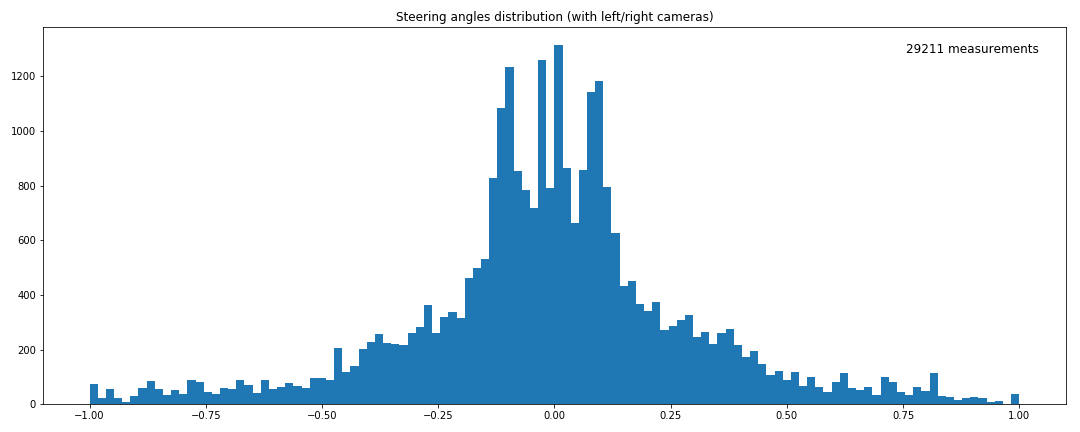
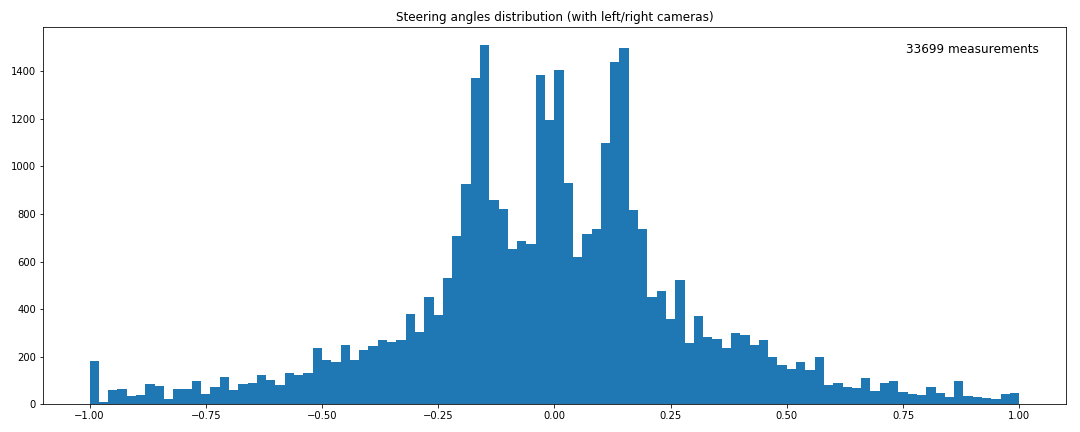
Blurring during preprocessing

diff --git a/model.py b/model.py
@@ -10,7 +10,7 @@ from data_loader import DataLoader
 
 # Keras
 from keras.models import Model
-from keras.layers import Input, Lambda, Dense, Flatten, Convolution2D, Dropout, Activation, BatchNormalization
+from keras.layers import Input, Lambda, Dense, Flatten, Convolution2D, MaxPooling2D, Dropout, Activation, BatchNormalization
 from keras.optimizers import Adam
 from keras.callbacks import TensorBoard, EarlyStopping
 
@@ -56,11 +56,11 @@ def build_model(input_shape, activation = FLAGS.activation, batch_norm = FLAGS.b
     x = Convolution2D(48, 5, 5, subsample = (2, 2), activation = activation)(x) #  22x5@48
 
     # An adddional two convolutions with smaller filters (filter size 3)
-    x = Convolution2D(64, 3, 3, activation = activation)(x) #20x3@64
-    x = Convolution2D(64, 3, 3, activation = activation)(x) #18x1@64
+    x = Convolution2D(64, 3, 3, activation = activation)(x)                     # 20x3@64
+    x = Convolution2D(64, 3, 3, activation = activation)(x)                     # 18x1@64
 
     # Flatten
-    x = Flatten()(x) # 1152
+    x = Flatten()(x)                                                            # 1152
     
     # Fully conected layers with batch normalization and dropout
     x = fully_connected(x, 100, activation, batch_norm = batch_norm)
@@ -76,17 +76,19 @@ def build_model(input_shape, activation = FLAGS.activation, batch_norm = FLAGS.b
 
 def main(_):
 
-    print('Configuration PP: {}, R: {}, C: {}, RT: {}'.format(
+    print('Configuration PP: {}, R: {}, C: {}, B: {}, RT: {}'.format(
         FLAGS.preprocess, 
         FLAGS.regenerate, 
-        FLAGS.clahe, 
-        FLAGS.random_transform)
-    )
+        FLAGS.clahe,
+        FLAGS.blur,
+        FLAGS.random_transform
+    ))
 
     data_loader = DataLoader(TRAIN_FILE, LOG_FILE, IMG_DIR, 
                              angle_correction = FLAGS.angle_correction,
                              mirror_min_angle = FLAGS.mirror_min_angle,
-                             normalize_factor = FLAGS.normalize_factor)
+                             normalize_factor = FLAGS.normalize_factor,
+                             normalize_bins = FLAGS.normalize_bins)
 
     images, measurements = data_loader.load_dataset(regenerate = FLAGS.regenerate)
 
@@ -108,7 +110,10 @@ def main(_):
                                             preprocess = FLAGS.preprocess, 
                                             random_transform = False)
 
+    
     model = build_model(ip.output_shape())
+
+    print(model.summary())
 
     model.compile(optimizer = Adam(lr = FLAGS.learning_rate), loss = FLAGS.loss)
 

diff --git a/app_args.py b/app_args.py
@@ -4,7 +4,7 @@ flags = tf.app.flags
 FLAGS = flags.FLAGS
 
 # command line flags
-flags.DEFINE_integer('epochs', 15, "The number of epochs; default 15")
+flags.DEFINE_integer('epochs', 40, "The number of epochs; default 15")
 flags.DEFINE_integer('batch_size', 64, "The batch size; default 64")
 flags.DEFINE_float('learning_rate', 0.0001, "The learning rate; default 0.0001")
 flags.DEFINE_string('loss', 'mse', 'The loss function; default "mse"')
@@ -12,9 +12,11 @@ flags.DEFINE_float('dropout', 0.2, 'The dropout probabilty; default 0.2')
 flags.DEFINE_string('activation', 'relu', 'The activation function; default "relu"')
 flags.DEFINE_float('batch_norm', 0.0, 'The batch norm momentum, if 0 batch norm is not applied; default 0')
 flags.DEFINE_float('angle_correction', 0.15, 'The correction angle to add to right and left camera images')
-flags.DEFINE_float('mirror_min_angle', 0.2, 'The min steering angle needed in order to discriminate if an image should be mirrored or not')
+flags.DEFINE_float('mirror_min_angle', 0.0, 'The min steering angle needed in order to discriminate if an image should be mirrored or not')
 flags.DEFINE_float('normalize_factor', 1.5, 'The factor applied for normalization when dropping values over the mean')
+flags.DEFINE_float('normalize_bins', 100, 'The number of bins to divide the data when normalizing')
 flags.DEFINE_boolean('regenerate', False, 'True if the dataset should be regenerated from the log file')
 flags.DEFINE_boolean('preprocess', True, 'True if the generator should preprocess all the images in memory')
-flags.DEFINE_boolean('clahe', True, 'True if histogram equalization should be applied during preprocessing')
-flags.DEFINE_boolean('random_transform', False, 'True if random image transformations should be applied during training')
+flags.DEFINE_boolean('clahe', False, 'True if histogram equalization should be applied during preprocessing')
+flags.DEFINE_boolean('blur', True, 'If blurring should be applied during preprocessing')
+flags.DEFINE_boolean('random_transform', True, 'True if random image transformations should be applied during training')

diff --git a/data_loader.py b/data_loader.py
@@ -56,6 +56,9 @@ class DataLoader():
         self.mirror_min_angle = mirror_min_angle
         self.normalize_factor = normalize_factor
         self.normalize_bins = normalize_bins
+        self.rnd_brightness_range = [-0.5, 1.5]
+        self.rnd_translate_pixels_range = [-15, 15]
+        self.rnd_translate_pixels_fact = 0.01
 
     def load_dataset(self, regenerate = False):
         """
@@ -144,15 +147,18 @@ class DataLoader():
         processed_angles = []
 
         for img, angle in zip(images, angles):
-            rnd_factor = np.random.uniform(0.5, 1.5)
+            rnd_factor = np.random.uniform(self.rnd_brightness_range[0], self.rnd_brightness_range[1])
             img = ip.adjust_image_brightness(img, factor = rnd_factor)
-            rnd_x = np.random.randint(-15, 15)
+            rnd_x = np.random.randint(self.rnd_translate_pixels_range[0], self.rnd_translate_pixels_range[1])
             img = ip.translate_image(img, x = rnd_x)
-            angle = angle + rnd_x * 0.002
+            angle = angle + rnd_x * self.rnd_translate_pixels_fact
             processed_images.append(img)
             processed_angles.append(angle)
+        
+        processed_images = np.array(processed_images)
+        processed_angles = np.array(np.clip(processed_angles, a_min = -1.0, a_max = 1.0))
 
-        return np.array(processed_images), np.array(processed_angles)
+        return processed_images, processed_angles
 
     def _load_image(self, image_file):
         img = cv2.imread(os.path.join(self.img_folder, image_file))

diff --git a/image_processor.py b/image_processor.py
@@ -10,6 +10,7 @@ class Params(object):
     INPUT_SHAPE = (160, 320, 3)
     CLIP = [60, 25]
     RESIZE = (200, 66)
+    BLUR = FLAGS.blur
     # Contrast Limited Adaptive Histogram Equalization
     CLAHE = cv2.createCLAHE(clipLimit = 2.0, tileGridSize = (8, 8)) if FLAGS.clahe else None
 
@@ -39,6 +40,7 @@ def output_shape(clip = Params.CLIP, resize = Params.RESIZE):
 
 def process_image(img, 
                   rgb = False,
+                  blur = Params.BLUR,
                   clip = Params.CLIP,
                   resize = Params.RESIZE,
                   clahe = Params.CLAHE):
@@ -67,6 +69,8 @@ def process_image(img,
         img = cv2.resize(img, resize, interpolation = cv2.INTER_AREA)
     if clahe is not None:
         img[:, :, 0] = clahe.apply(img[:, :, 0])
+    if blur:
+        img = cv2.GaussianBlur(img, (3, 3), 0)
     
     return img
 
